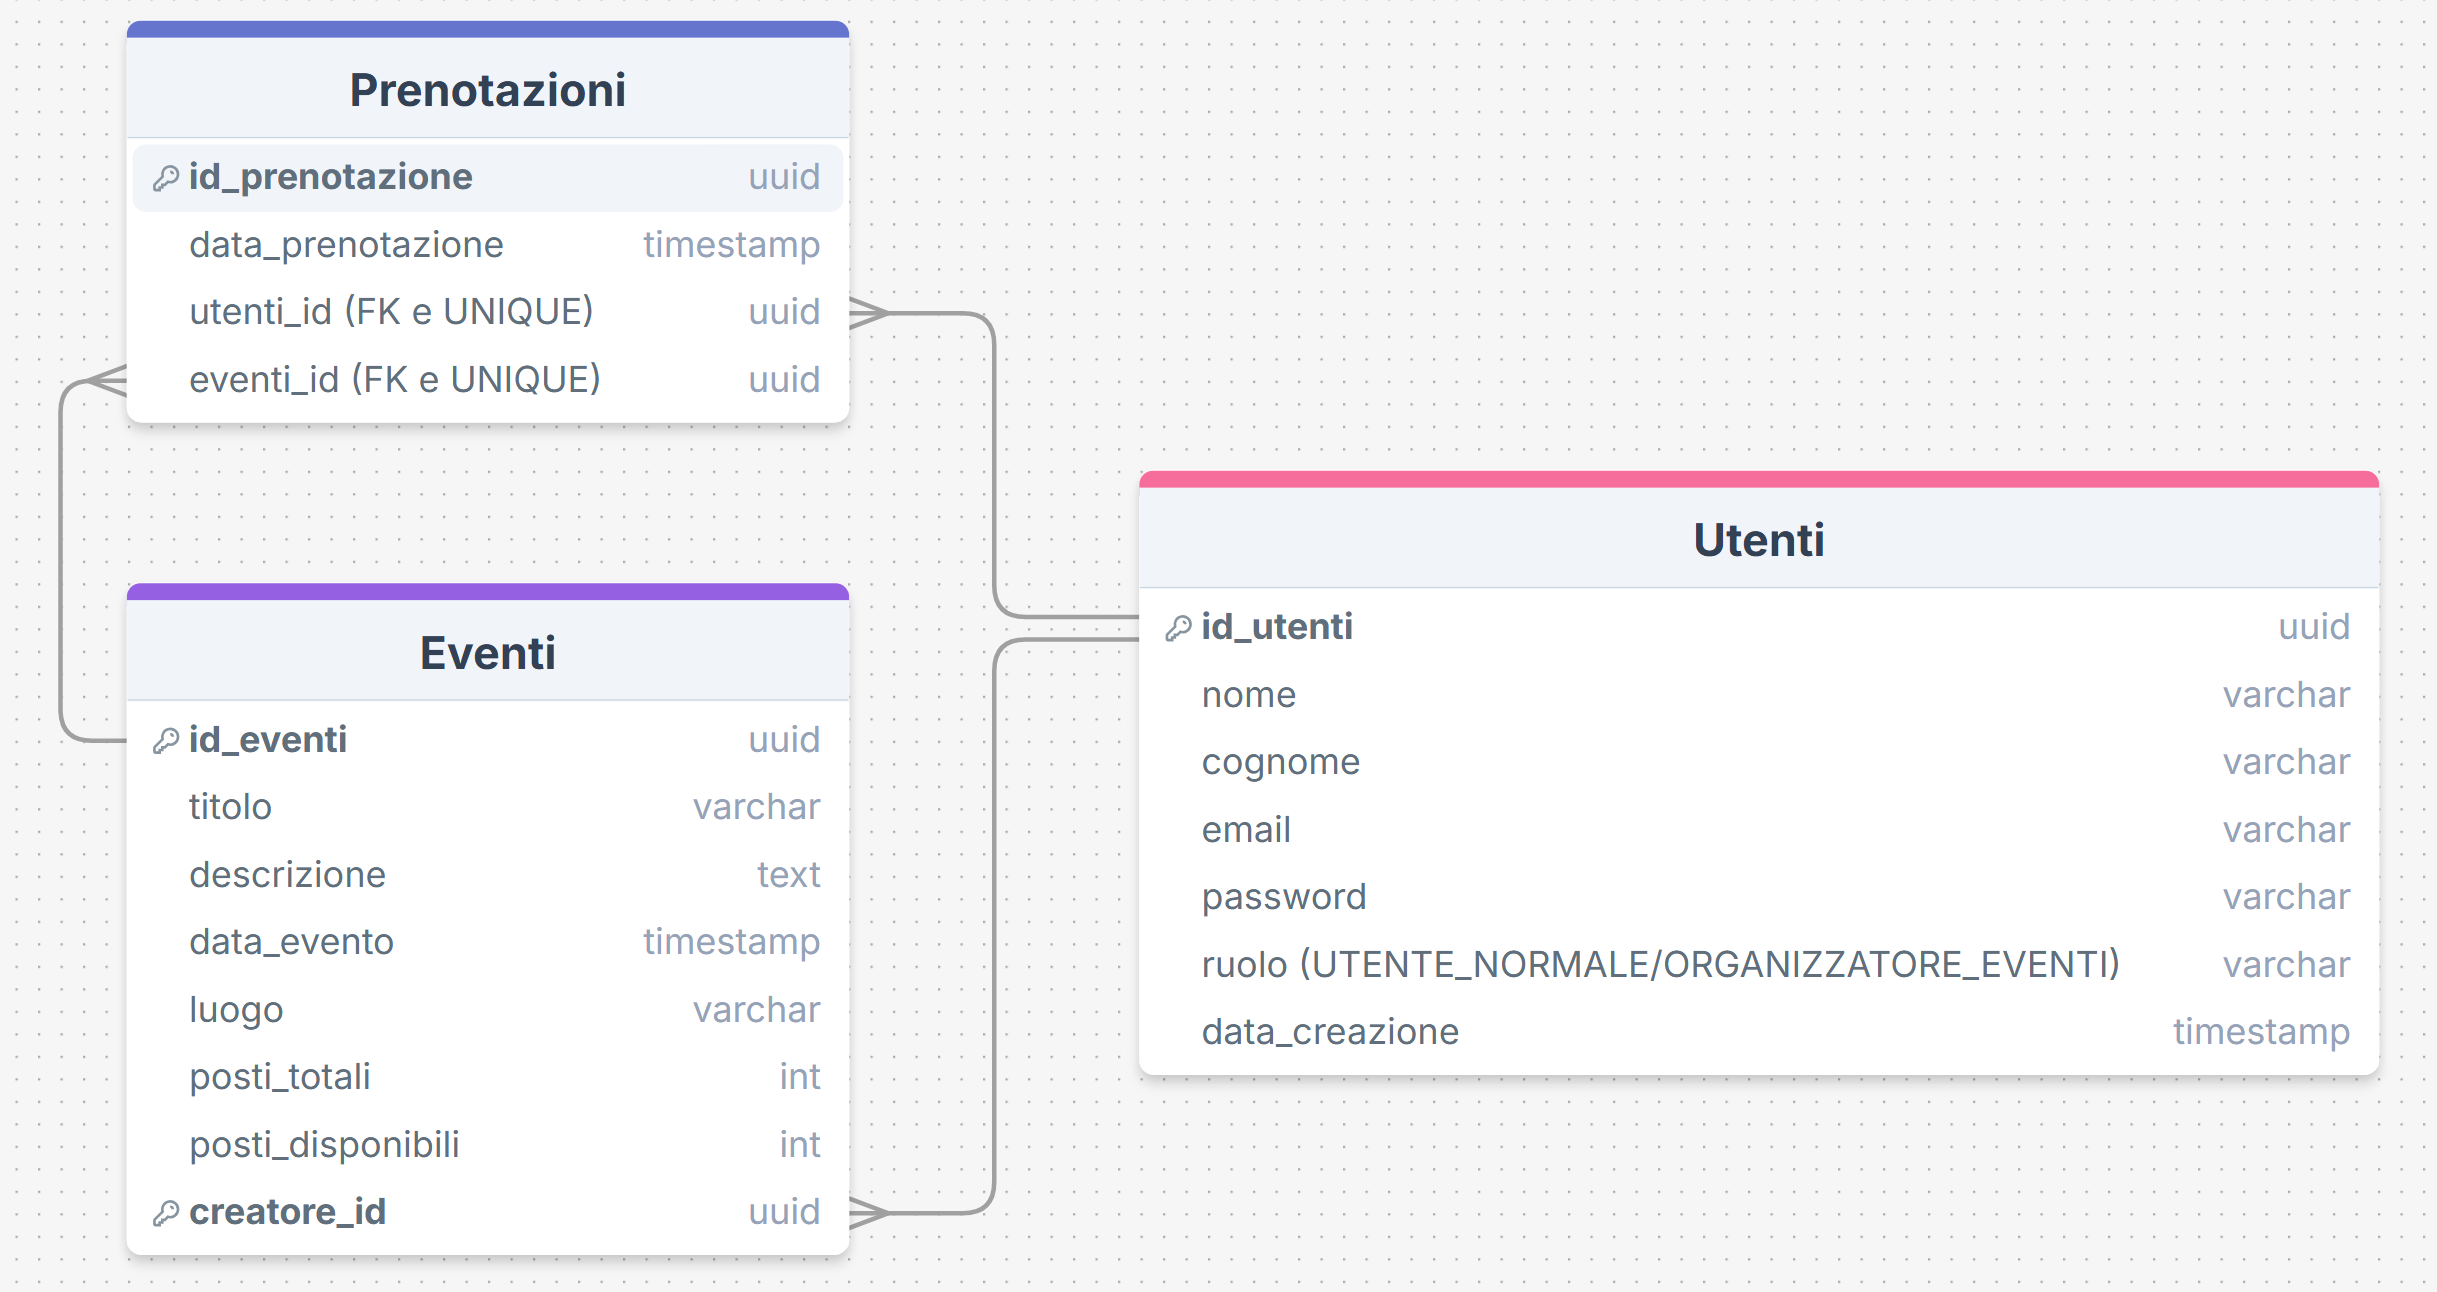
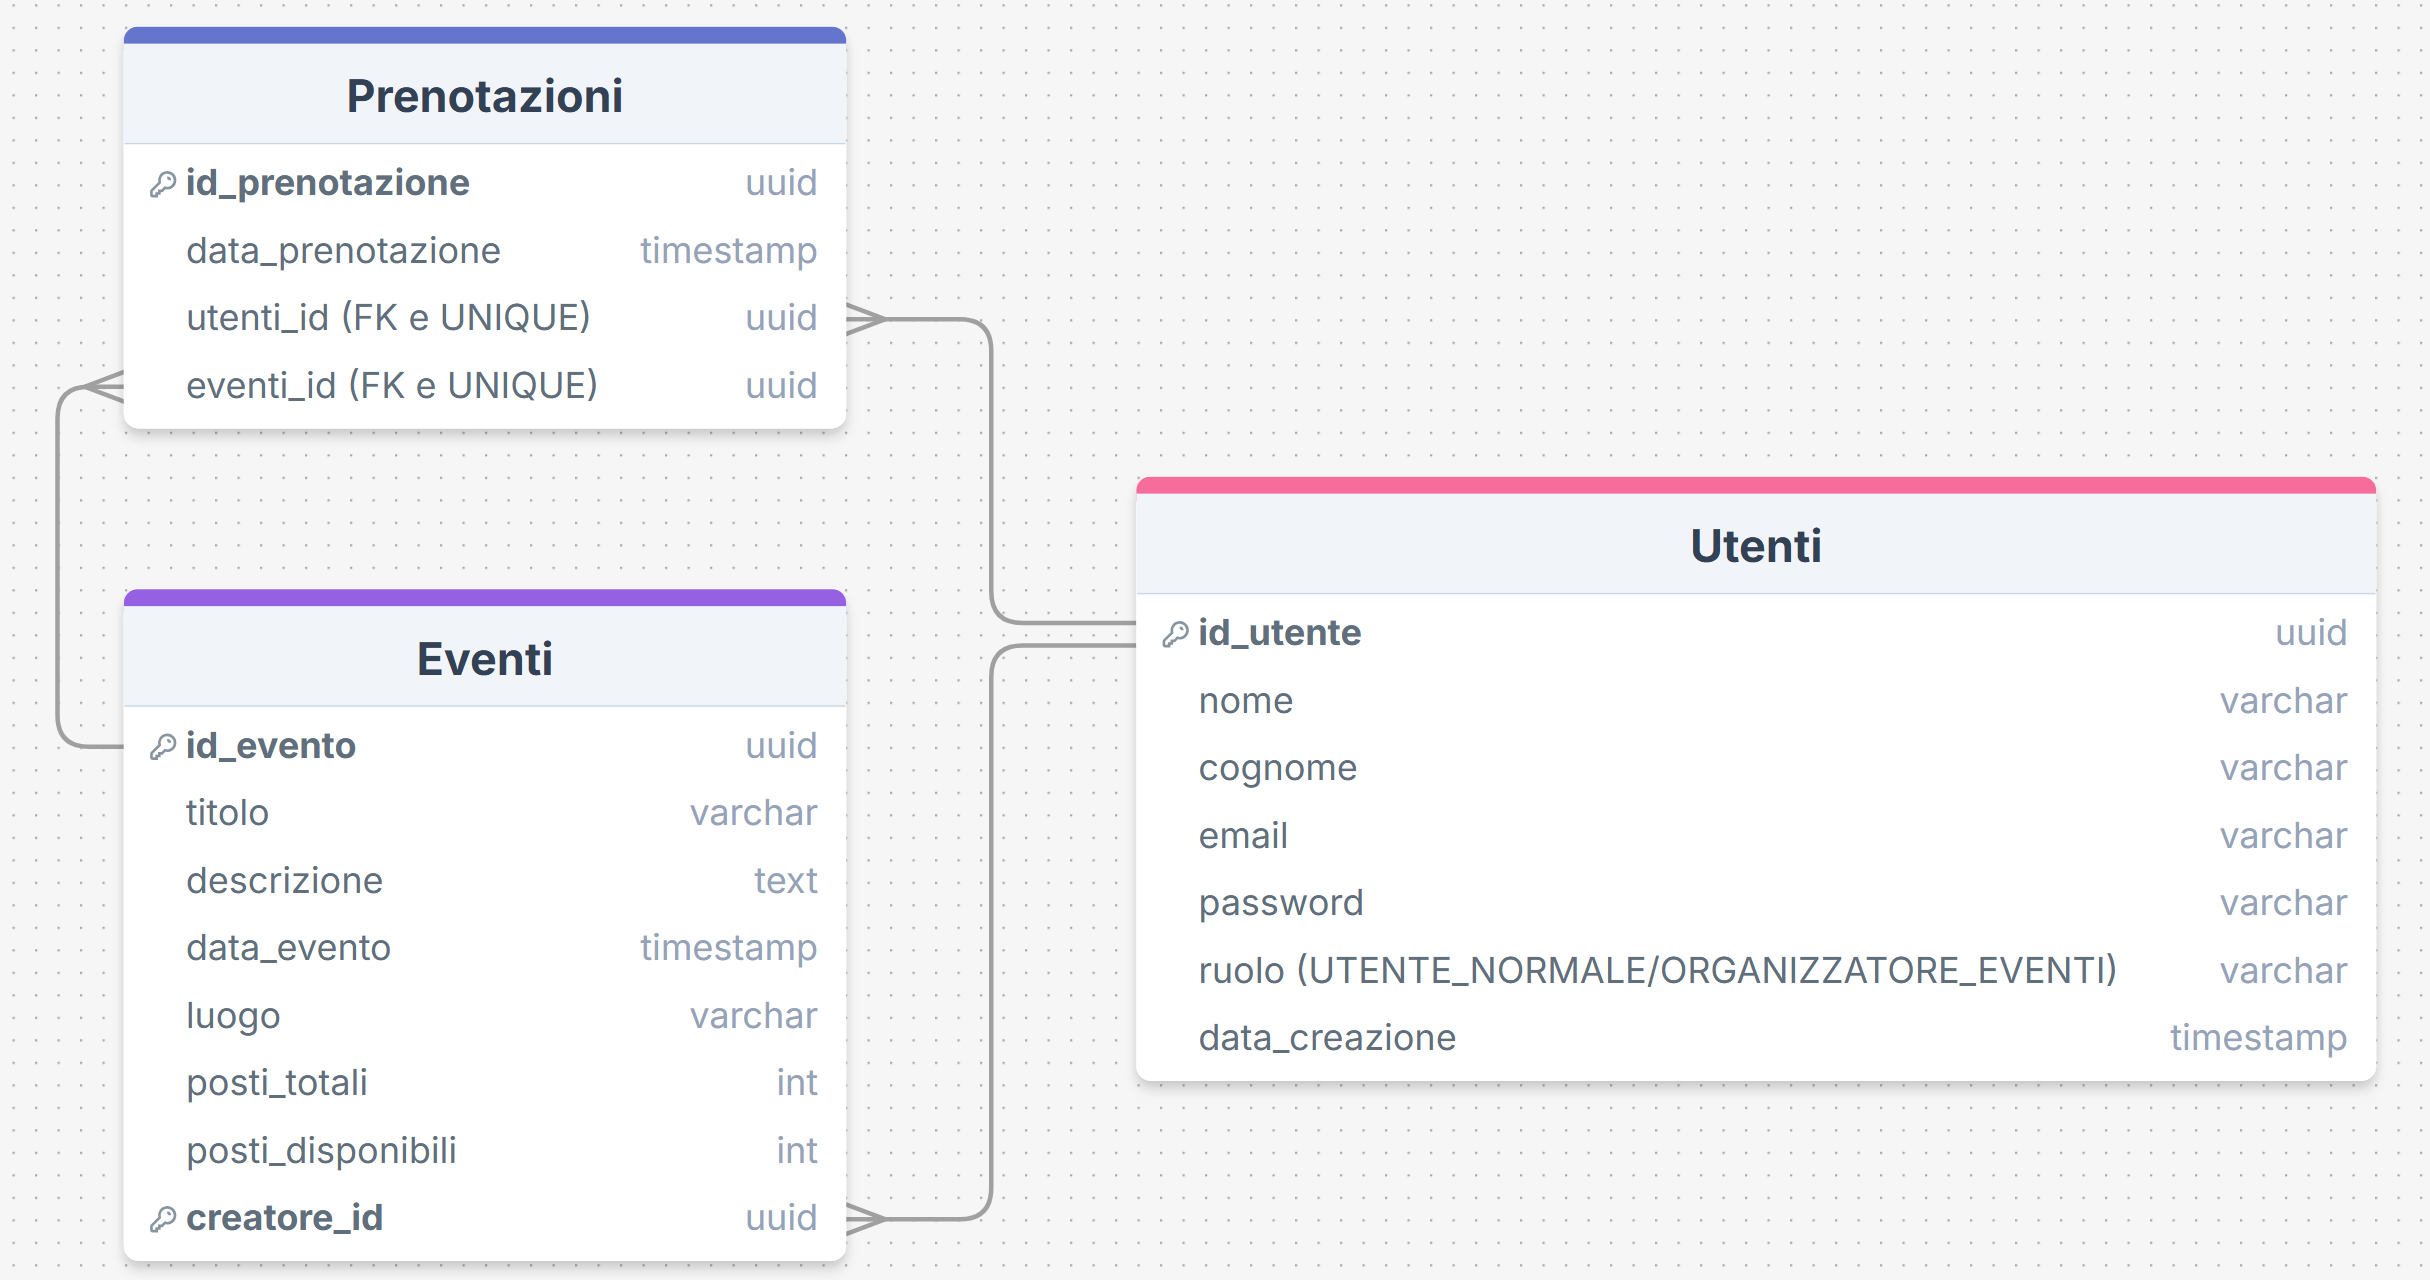
aggiunte entities: utenti, eventi e prenotazioni; sistemato lo schema db

diff --git a/src/main/java/matteobenetazzo/testweek3bu2/entities/Evento.java b/src/main/java/matteobenetazzo/testweek3bu2/entities/Evento.java
@@ -1,0 +1,55 @@
+package matteobenetazzo.testweek3bu2.entities;
+
+import jakarta.persistence.*;
+import lombok.*;
+
+import java.time.LocalDateTime;
+import java.util.UUID;
+
+@Entity
+@Table(name = "eventi")
+@Getter
+@Setter
+@NoArgsConstructor
+@AllArgsConstructor
+@ToString
+public class Evento {
+
+    @Id
+    @GeneratedValue
+    @Column(name = "id_evento")
+    private UUID id;
+
+    @Column(nullable = false)
+    private String titolo;
+
+    @Column(nullable = false, columnDefinition = "TEXT")
+    private String descrizione;
+
+    @Column(name = "data_evento", nullable = false)
+    private LocalDateTime dataEvento;
+
+    @Column(nullable = false)
+    private String luogo;
+
+    @Column(name = "posti_totali", nullable = false)
+    private int postiTotali;
+
+    @Column(name = "posti_disponibili", nullable = false)
+    private int postiDisponibili;
+
+    // creatore dell'evento (1 utente può creare tanti eventi)
+    @ManyToOne
+    @JoinColumn(name = "creatore_id", nullable = false)
+    private Utente creatore;
+
+    public Evento(String titolo, String descrizione, LocalDateTime dataEvento, String luogo, int postiTotali, Utente creatore) {
+        this.titolo = titolo;
+        this.descrizione = descrizione;
+        this.dataEvento = dataEvento;
+        this.luogo = luogo;
+        this.postiTotali = postiTotali;
+        this.postiDisponibili = postiTotali;
+        this.creatore = creatore;
+    }
+}

diff --git a/src/main/java/matteobenetazzo/testweek3bu2/entities/Utente.java b/src/main/java/matteobenetazzo/testweek3bu2/entities/Utente.java
@@ -1,0 +1,55 @@
+package matteobenetazzo.testweek3bu2.entities;
+
+import jakarta.persistence.*;
+import lombok.*;
+
+import java.time.LocalDateTime;
+import java.util.UUID;
+
+@Entity
+@Table(name = "utenti")
+@Getter
+@Setter
+@NoArgsConstructor
+@AllArgsConstructor
+@ToString
+public class Utente {
+
+    // id univoco dell'utente
+    @Id
+    @GeneratedValue
+    @Column(name = "id_utente")
+    private UUID id;
+
+    @Column(nullable = false)
+    private String nome;
+
+    @Column(nullable = false)
+    private String cognome;
+
+    // email per il login
+    @Column(nullable = false, unique = true)
+    private String email;
+
+    // password criptata
+    @Column(nullable = false)
+    private String password;
+
+    // enum salvato come STRINGA nel DB
+    @Enumerated(EnumType.STRING)
+    @Column(nullable = false)
+    private RuoloUtente ruolo;
+
+    // data creazione utente
+    @Column(name = "data_creazione", nullable = false)
+    private LocalDateTime dataCreazione;
+
+    public Utente(String nome, String cognome, String email, String password, RuoloUtente ruolo) {
+        this.nome = nome;
+        this.cognome = cognome;
+        this.email = email;
+        this.password = password;
+        this.ruolo = ruolo;
+        this.dataCreazione = LocalDateTime.now();
+    }
+}

diff --git a/src/main/java/matteobenetazzo/testweek3bu2/entities/Prenotazione.java b/src/main/java/matteobenetazzo/testweek3bu2/entities/Prenotazione.java
@@ -1,0 +1,41 @@
+package matteobenetazzo.testweek3bu2.entities;
+
+import jakarta.persistence.*;
+import lombok.*;
+
+import java.time.LocalDateTime;
+import java.util.UUID;
+
+@Entity
+@Table(name = "prenotazioni", uniqueConstraints = @UniqueConstraint(columnNames = {"utenti_id", "eventi_id"}))
+@Getter
+@Setter
+@NoArgsConstructor
+@AllArgsConstructor
+@ToString
+public class Prenotazione {
+
+    @Id
+    @GeneratedValue
+    @Column(name = "id_prenotazione")
+    private UUID id;
+
+    @Column(name = "data_prenotazione", nullable = false)
+    private LocalDateTime dataPrenotazione;
+
+    // relazione con utente
+    @ManyToOne
+    @JoinColumn(name = "utenti_id", nullable = false)
+    private Utente utente;
+
+    // relazione con evento
+    @ManyToOne
+    @JoinColumn(name = "eventi_id", nullable = false)
+    private Evento evento;
+
+    public Prenotazione(Utente utente, Evento evento) {
+        this.utente = utente;
+        this.evento = evento;
+        this.dataPrenotazione = LocalDateTime.now();
+    }
+}

diff --git a/src/main/java/matteobenetazzo/testweek3bu2/entities/RuoloUtente.java b/src/main/java/matteobenetazzo/testweek3bu2/entities/RuoloUtente.java
@@ -1,0 +1,6 @@
+package matteobenetazzo.testweek3bu2.entities;
+
+public enum RuoloUtente {
+    UTENTE_NORMALE,
+    ORGANIZZATORE_EVENTI
+}
